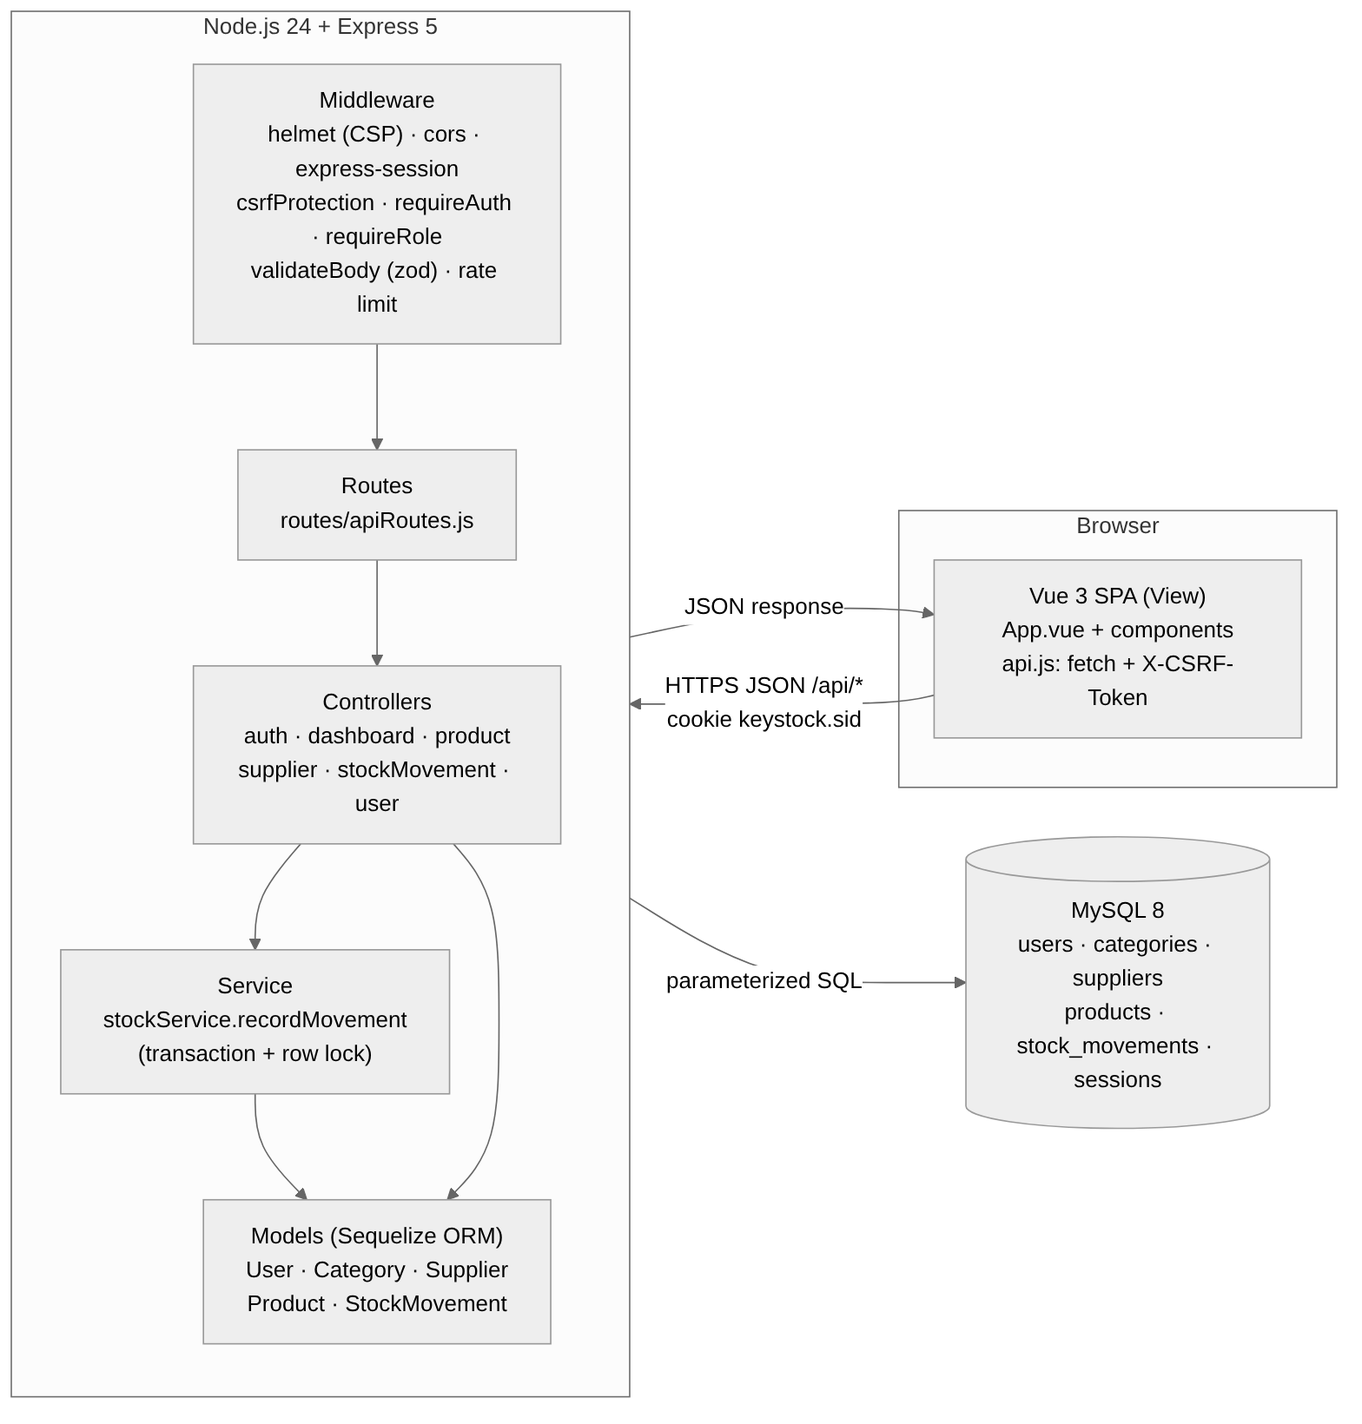
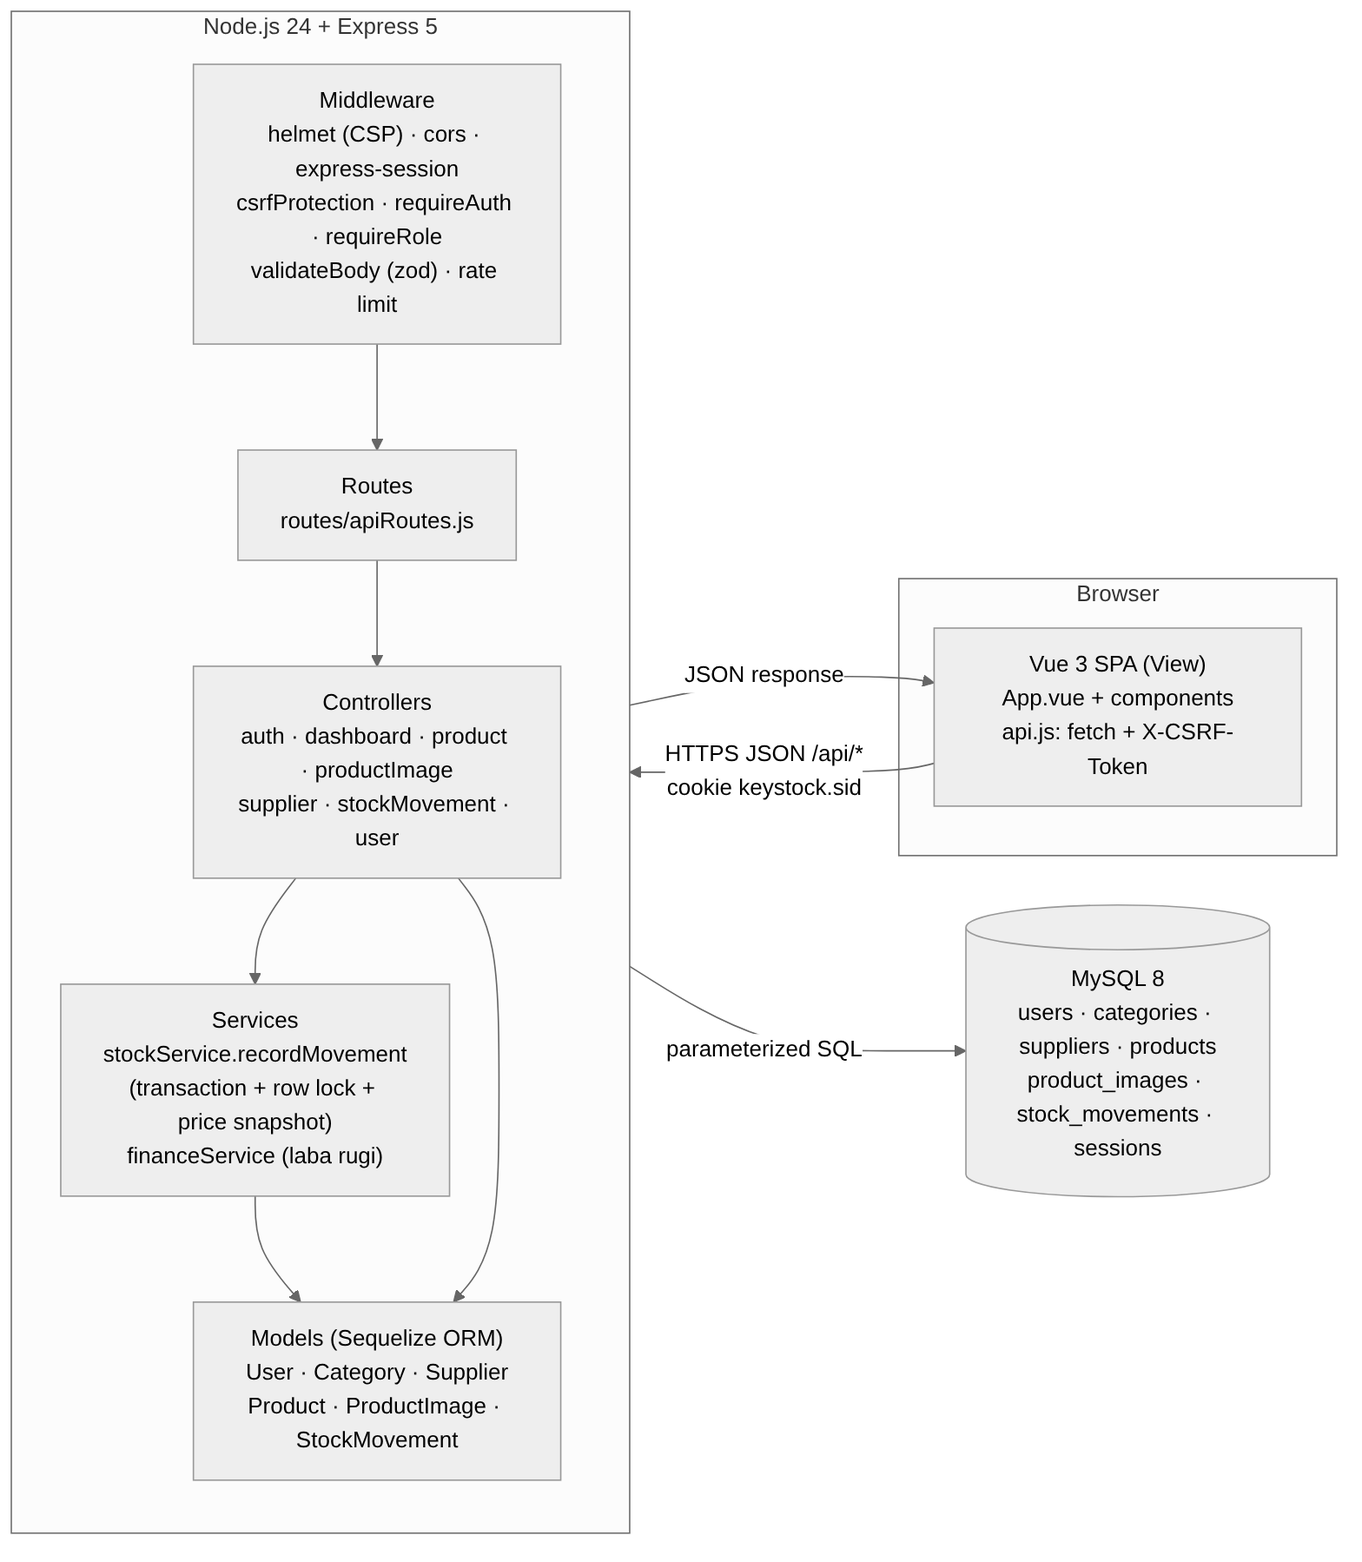
docs: update ERD, schema, diagrams, and guides for photos, finance, and racks
- ERD and schema.sql gain product_images, users.username, and the
  movement reason and price snapshot columns.
- Architecture and flowchart diagrams re-rendered.
- README, requirements, and deployment guides describe the test
  accounts, username login, profit and loss, rack locations, photo
  gallery, WhatsApp shortcuts, and the new API routes.

diff --git a/docs/requirements-and-architecture.md b/docs/requirements-and-architecture.md
@@ -4,7 +4,16 @@
 
 KeyStock adalah sistem **manajemen inventaris gudang** untuk keyboard mechanical dan aksesori (studi kasus pilihan UAS: *Sistem Manajemen Inventaris Gudang*). Pemilik/admin mengelola katalog, supplier, dan pengguna; staff gudang mencatat setiap stok masuk, stok keluar, dan penyesuaian. Status listing marketplace hanya referensi — aplikasi tidak memanggil API marketplace.
 
-Katalog contoh berisi 23 produk (keyboard, switch, keycaps, deskmat, aksesori). Jumlah stok, lokasi rak, dan riwayat 7 hari terakhir adalah **data simulasi** dari seeder.
+Katalog contoh berisi 23 produk (keyboard, switch, keycaps, deskmat, aksesori). Jumlah stok, lokasi rak, harga beli/jual, dan riwayat 7 hari terakhir adalah **data simulasi** dari seeder (harga beli dihitung dari rasio modal per kategori, harga jual = harga katalog).
+
+### Akun uji
+
+| Peran | Username | Email | Kata sandi |
+| --- | --- | --- | --- |
+| Admin (untuk dosen penguji) | `dosen` | `dosen@keystock.local` | `12345678` |
+| Staff | `staff` | `staff@keystock.local` | `12345678` |
+
+Akun dibuat oleh `npm run db:seed` dari variabel `SEED_DOSEN_*` dan `SEED_STAFF_*` di `.env` (tidak ditulis di kode). Login menerima **username atau email**.
 
 > **Stack:** Soal UAS menyebut Laravel + Eloquent. Proyek ini memakai **Vue 3 + Node.js/Express + MySQL + Sequelize ORM** atas persetujuan dosen. Pola MVC, relasi ORM, validasi server, CSRF, session, dan RBAC tetap diterapkan; padanan Eloquent dijelaskan di tabel bawah.
 
@@ -13,9 +22,10 @@ Katalog contoh berisi 23 produk (keyboard, switch, keycaps, deskmat, aksesori). 
 | Aksi | Admin | Staff |
 | --- | :---: | :---: |
 | Daftar akun sendiri (otomatis menjadi staff) | – | ✓ |
-| Login, logout, melihat ringkasan / produk / supplier / riwayat stok | ✓ | ✓ |
-| Mencatat stok masuk, stok keluar, penyesuaian | ✓ | ✓ |
-| Tambah, ubah, arsipkan produk | ✓ | ✗ (403) |
+| Login, logout, melihat ringkasan / laba rugi / produk / supplier / riwayat stok | ✓ | ✓ |
+| Mencatat stok masuk, stok keluar, penyesuaian (beserta alasannya) | ✓ | ✓ |
+| Tambah, ubah, arsipkan produk (harga, lokasi rak) | ✓ | ✗ (403) |
+| Unggah, urutkan, hapus foto produk | ✓ | ✗ (403) |
 | Tambah, ubah, arsipkan supplier | ✓ | ✗ (403) |
 | Lihat pengguna, ubah peran, nonaktifkan akun | ✓ | ✗ (403) |
 
@@ -23,13 +33,16 @@ Aturan di atas ditegakkan di server oleh middleware `requireAuth` dan `requireRo
 
 ## Fitur
 
-1. Registrasi (akun staff), login, logout, session server-side di MySQL.
-2. Ringkasan stok: KPI total unit (perubahan 7 hari), jumlah perlu restock, stok habis; heatmap aktivitas 7/14/30 hari; stok terendah/rata-rata/tertinggi; detail produk; peta rak; tabel aktivitas terbaru dengan filter dan pagination; ekspor CSV.
-3. CRUD produk (tambah, lihat + cari + filter, ubah, arsip/soft delete) dengan validasi server per-field.
-4. CRUD supplier (tambah, lihat, ubah, arsip).
-5. Pergerakan stok: masuk, keluar, penyesuaian — setiap catatan menyimpan stok sebelum/sesudah, pengguna, waktu, dan catatan; pratinjau saldo sebelum disimpan; riwayat dengan pencarian dan filter.
-6. Manajemen pengguna (admin): ubah peran admin/staff, nonaktifkan/aktifkan akun.
-7. Mode terang/gelap, layout responsif (tab bar bawah di ponsel, tabel menjadi kartu).
+1. Registrasi (nama, username, email; otomatis staff), login dengan username **atau** email, logout, session server-side di MySQL.
+2. Ringkasan stok: KPI total unit (perubahan 7 hari), jumlah perlu restock, stok habis; heatmap aktivitas 7/14/30 hari; stok terendah/rata-rata/tertinggi; kartu detail produk; tabel aktivitas terbaru dengan filter dan pagination; ekspor CSV (termasuk laba per unit, margin, nilai stok).
+3. **Laba & rugi 30 hari**: pendapatan, HPP (modal barang terjual), laba kotor, margin, rugi stok (rusak/hilang), laba bersih, belanja stok, unit terjual, nilai stok (modal), dan potensi laba stok. Dihitung dari *snapshot* harga di setiap pergerakan, jadi perubahan harga tidak mengubah laporan lama.
+4. **Peta rak gudang**: tampilan depan rak bertingkat; lokasi memakai format `RAK-TINGKAT-SLOT` (mis. `A-1-05`), satu slot hanya untuk satu produk aktif; tinggi kardus mengikuti jumlah stok, warna mengikuti status stok; klik kardus membuka detail produk.
+5. CRUD produk (tambah, lihat + cari + filter, ubah, arsip/soft delete) dengan validasi server per-field; harga beli/jual dengan laba per unit dan margin.
+6. **Detail produk** (dialog): galeri foto dengan slide, harga & laba, statistik 30 hari, riwayat terakhir, dan kontak supplier. Admin dapat mengunggah (JPEG/PNG/WebP, maks 2 MB, maks 8 foto), mengurutkan, menjadikan foto utama, dan menghapus foto.
+7. CRUD supplier (tambah, lihat, ubah, arsip); tombol **WhatsApp** (`wa.me`, nomor 08… otomatis menjadi 628…), telepon, dan email.
+8. Pergerakan stok: masuk (pembelian, retur pelanggan), keluar (penjualan, rusak, hilang, retur ke supplier), penyesuaian (stock opname). Setiap catatan menyimpan stok sebelum/sesudah, alasan, harga saat itu, pengguna, waktu, dan catatan; pratinjau saldo dan nilai rupiah sebelum disimpan; riwayat dengan pencarian dan filter.
+9. Manajemen pengguna (admin): ubah peran admin/staff, nonaktifkan/aktifkan akun; tabel rincian hak akses.
+10. Mode terang/gelap, layout responsif (tab bar bawah di ponsel, tabel menjadi kartu).
 
 ## Arsitektur (MVC)
 
@@ -42,7 +55,7 @@ Aturan di atas ditegakkan di server oleh middleware `requireAuth` dan `requireRo
 | **Controller** | `server/src/controllers/*.js` | Menerima request, memanggil model/service, mengembalikan JSON |
 | Routes | `server/src/routes/apiRoutes.js` | Memetakan URL + method ke controller dan middleware |
 | Middleware | `server/src/middleware/*.js` | CSRF, autentikasi, otorisasi peran, validasi, error handler |
-| Service | `server/src/services/stockService.js` | Logika stok dalam transaksi database + row lock |
+| Service | `server/src/services/stockService.js`, `financeService.js` | Logika stok dalam transaksi database + row lock; ringkasan laba rugi |
 
 ### Siklus request (contoh: tambah produk)
 
@@ -61,6 +74,12 @@ Aturan di atas ditegakkan di server oleh middleware `requireAuth` dan `requireRo
 | GET | `/api/dashboard` | `requireAuth` | `getDashboard` |
 | GET | `/api/categories` | `requireAuth` | `listCategories` |
 | GET | `/api/products` | `requireAuth` | `listProducts` (search, kategori, stok rendah) |
+| GET | `/api/products/:id` | `requireAuth` | `getProduct` (foto, riwayat, statistik 30 hari) |
+| GET | `/api/products/:id/images` | `requireAuth` | `listImages` |
+| GET | `/api/products/:id/images/:imageId/file` | `requireAuth` | `sendImageFile` |
+| POST | `/api/products/:id/images` | csrf, `requireAuth`, `requireRole('admin')`, body mentah ≤ 2 MB | `uploadImage` |
+| PUT | `/api/products/:id/images/order` | csrf, `requireAuth`, `requireRole('admin')`, `imageOrderSchema` | `reorderImages` |
+| DELETE | `/api/products/:id/images/:imageId` | csrf, `requireAuth`, `requireRole('admin')` | `deleteImage` |
 | POST | `/api/products` | csrf, `requireAuth`, `requireRole('admin')`, `productSchema` | `createProduct` |
 | PUT | `/api/products/:id` | csrf, `requireAuth`, `requireRole('admin')`, `productSchema` | `updateProduct` |
 | DELETE | `/api/products/:id` | csrf, `requireAuth`, `requireRole('admin')` | `deleteProduct` (arsip) |
@@ -75,14 +94,15 @@ Aturan di atas ditegakkan di server oleh middleware `requireAuth` dan `requireRo
 
 ![ERD](diagrams/erd.png)
 
-Lima tabel domain + tabel `sessions` (dibuat otomatis oleh `express-mysql-session`):
+Enam tabel domain + tabel `sessions` (dibuat otomatis oleh `express-mysql-session`):
 
 - `categories` 1–N `products` (FK `category_id`, `ON DELETE RESTRICT`)
+- `products` 1–N `product_images` (FK `product_id`, `ON DELETE CASCADE`)
 - `suppliers` 0..1–N `products` (FK `supplier_id`, nullable, `ON DELETE SET NULL`)
 - `products` 1–N `stock_movements` (FK `product_id`, `ON DELETE RESTRICT`)
 - `users` 1–N `stock_movements` (FK `user_id`, `ON DELETE RESTRICT`)
 
-Skrip SQL: [`database/schema.sql`](../database/schema.sql). Migrasi kode: `npm run db:sync` (`sequelize.sync` + `server/src/db/migrations.js`).
+Skrip SQL: [`database/schema.sql`](../database/schema.sql) (struktur) dan [`database/keystock-demo.sql`](../database/keystock-demo.sql) (struktur + data demo). Migrasi kode: `npm run db:sync` (`sequelize.sync` + `server/src/db/migrations.js`, yang juga menambah kolom baru ke database lama).
 
 ### Padanan Sequelize ↔ Eloquent
 
@@ -108,6 +128,8 @@ Skrip SQL: [`database/schema.sql`](../database/schema.sql). Migrasi kode: `npm r
 | Akses tanpa hak | `requireAuth` + `requireRole('admin')`; akun nonaktif langsung ditolak | `middleware/auth.js` |
 | Data stok tidak konsisten | Transaksi + row lock; stok keluar tidak boleh melebihi saldo | `services/stockService.js` |
 | CSV injection | Sel ekspor yang diawali `= + - @` diberi prefix `'` | `App.vue` (`exportInventoryCsv`) |
+| Upload file berbahaya | Hanya admin; tipe dicek dari *magic bytes* (JPEG/PNG/WebP), bukan nama file; maks 2 MB dan 8 foto per produk; disajikan dengan `Content-Type` asli + `nosniff` | `controllers/productImageController.js` |
+| Slot rak bentrok | Format `RAK-TINGKAT-SLOT` divalidasi; slot yang sudah dipakai produk aktif ditolak (409) | `validators.js`, `productController.js` |
 
 ## Alur aplikasi
 

diff --git a/README.md b/README.md
@@ -8,11 +8,14 @@ Proyek UAS *Web Application Development* — Universitas Cakrawala.
 
 ## Fitur
 
-- **Autentikasi:** registrasi (akun baru = staff), login, logout, session di MySQL.
-- **Ringkasan stok** (desain mengikuti referensi Quantara, hitam-putih): KPI total unit / perlu restock / stok habis, heatmap aktivitas 7/14/30 hari, stok terendah–rata-rata–tertinggi, detail produk + kontak supplier, peta rak, tabel aktivitas terbaru dengan filter + pagination, ekspor CSV.
-- **Produk:** CRUD lengkap (arsip = soft delete), pencarian, filter kategori/supplier/stok rendah, validasi per-field.
-- **Supplier:** CRUD + kontak (telepon, email, situs).
-- **Pergerakan stok:** stok masuk, keluar, penyesuaian dengan pratinjau saldo; setiap catatan menyimpan stok sebelum/sesudah, pengguna, waktu.
+- **Autentikasi:** registrasi (nama, username, email; akun baru = staff), login dengan **username atau email**, logout, session di MySQL.
+- **Ringkasan stok** (desain mengikuti referensi Quantara, hitam-putih): KPI total unit / perlu restock / stok habis, heatmap aktivitas 7/14/30 hari, detail produk + kontak supplier, tabel aktivitas terbaru dengan filter + pagination, ekspor CSV.
+- **Laba & rugi 30 hari:** pendapatan, HPP, laba kotor + margin, rugi stok (rusak/hilang), laba bersih, belanja stok, nilai stok, dan potensi laba stok.
+- **Peta rak gudang:** gambar rak bertingkat dengan lokasi `RAK-TINGKAT-SLOT` (mis. `A-1-05`); tinggi kardus = jumlah stok, warna = status stok; klik untuk detail.
+- **Produk:** CRUD lengkap (arsip = soft delete), harga beli/jual + laba per unit dan margin, pencarian, filter kategori/supplier/stok rendah, validasi per-field.
+- **Detail produk (dialog):** galeri foto bergeser (slide); admin bisa unggah, urutkan, pilih foto utama, dan hapus foto (disimpan di MySQL).
+- **Supplier:** CRUD + kontak; tombol **WhatsApp**, telepon, dan email langsung dari kartu supplier.
+- **Pergerakan stok:** masuk (pembelian, retur pelanggan), keluar (penjualan, rusak, hilang, retur ke supplier), penyesuaian (stock opname) dengan pratinjau saldo dan nilai rupiah; setiap catatan menyimpan stok sebelum/sesudah, alasan, harga saat itu, pengguna, waktu.
 - **Pengguna (admin):** ubah peran admin/staff, nonaktifkan akun, tabel rincian hak akses.
 - Mode terang/gelap, responsif (tab bar bawah di ponsel, tabel jadi kartu).
 
@@ -20,21 +23,23 @@ Proyek UAS *Web Application Development* — Universitas Cakrawala.
 
 | Aksi | Admin | Staff |
 | --- | :---: | :---: |
-| Lihat ringkasan, produk, supplier, riwayat stok | ✓ | ✓ |
+| Lihat ringkasan, laba rugi, produk, supplier, riwayat stok | ✓ | ✓ |
 | Catat stok masuk / keluar / penyesuaian | ✓ | ✓ |
 | Tambah / ubah / arsipkan produk dan supplier | ✓ | ✗ |
+| Kelola foto produk | ✓ | ✗ |
 | Kelola pengguna | ✓ | ✗ |
 
 ## Akun demo
 
-Akun dibuat oleh seeder dari nilai `SEED_*` di `.env` (lokal) atau *Variables* Railway (production). Password **tidak** disimpan di repository.
+Akun dibuat oleh seeder dari nilai `SEED_*` di `.env` (lokal) atau *Variables* Railway (production), bukan dari kode. Login bisa memakai **username atau email**.
 
-| Peran | Email | Password |
-| --- | --- | --- |
-| Admin | nilai `SEED_ADMIN_EMAIL` (contoh: `admin@keystock.local`) | nilai `SEED_ADMIN_PASSWORD` |
-| Staff | nilai `SEED_STAFF_EMAIL` (contoh: `staff@keystock.local`) | nilai `SEED_STAFF_PASSWORD` |
+| Peran | Username | Email | Password (nilai di `.env.example`) |
+| --- | --- | --- | --- |
+| Admin — akun uji dosen | `dosen` | `dosen@keystock.local` | `12345678` |
+| Staff | `staff` | `staff@keystock.local` | `12345678` |
+| Admin pemilik | `admin` | `admin@keystock.local` | nilai `SEED_ADMIN_PASSWORD` |
 
-Akun staff tambahan bisa dibuat sendiri lewat tab **Daftar akun** di halaman login.
+Akun staff tambahan bisa dibuat sendiri lewat tab **Daftar akun** di halaman login. Ganti password demo jika aplikasi dibuka untuk umum.
 
 ## Menjalankan di komputer lokal
 
@@ -45,16 +50,17 @@ Prasyarat: Node.js 24 (lihat `.nvmrc`), npm, dan MySQL 8 (lokal atau Docker Desk
 cp .env.example .env
 #    - SESSION_SECRET  -> hasil: openssl rand -hex 32
 #    - DB_PASSWORD / DB_ROOT_PASSWORD -> password MySQL lokal
-#    - SEED_ADMIN_PASSWORD (min. 12 karakter), opsional SEED_STAFF_PASSWORD
+#    - SEED_ADMIN_PASSWORD (min. 8 karakter); akun dosen & staff sudah berisi 12345678
 
 # 2. Database (pilih salah satu)
 docker compose up -d mysql            # MySQL 8.4 via Docker
 #  atau import database/schema.sql ke MySQL lokal lalu buat user sesuai .env
+#  (database/keystock-demo.sql = struktur + data demo siap pakai)
 
 # 3. Dependency + data
 npm install
 npm run db:sync     # buat / sesuaikan tabel
-npm run db:seed     # kategori, supplier, 23 produk, riwayat stok demo, akun demo
+npm run db:seed     # kategori, supplier, 23 produk + foto, harga, lokasi rak, riwayat stok, akun demo
 
 # 4. Jalankan (API :3000 + Vite :5173)
 npm run dev
@@ -77,18 +83,20 @@ Buka <http://localhost:5173>.
 ```text
 client/                         View — Vue 3 + Vite
   src/App.vue                   halaman, state, dan pemanggilan API
-  src/components/               ActivityHeatmap.vue, RackMap.vue
+  src/components/               ActivityHeatmap.vue, RackMap.vue, ProductDetailModal.vue
+  src/utils/format.js           format rupiah/tanggal, laba & margin, link WhatsApp, lokasi rak
   src/api.js                    fetch wrapper + header X-CSRF-Token
   src/style.css                 design tokens terang/gelap
 server/src/
   routes/apiRoutes.js           routing URL -> middleware -> controller
-  controllers/                  Controller: auth, dashboard, product, supplier, stockMovement, user
-  models/index.js               Model: User, Category, Supplier, Product, StockMovement + relasi
-  services/stockService.js      logika stok (transaksi + row lock)
+  controllers/                  Controller: auth, dashboard, product, productImage, supplier, stockMovement, user
+  models/index.js               Model: User, Category, Supplier, Product, ProductImage, StockMovement + relasi
+  services/                     stockService (transaksi + row lock, snapshot harga), financeService (laba rugi)
   middleware/                   auth (requireAuth/requireRole), csrf, validate, validators (zod), errorHandler
   db/                           sync & migrasi kolom
   seeders/                      catalog.json + seed.js
-database/schema.sql             DDL MySQL (5 tabel, foreign key, index)
+database/schema.sql             DDL MySQL (6 tabel, foreign key, index)
+database/keystock-demo.sql      dump struktur + data demo (import langsung ke MySQL)
 docs/                           kebutuhan, arsitektur, ERD, flowchart, deployment, keputusan desain
 railway.json                    konfigurasi build/start Railway
 docker-compose.yml              MySQL lokal
@@ -112,12 +120,12 @@ docker-compose.yml              MySQL lokal
 
 ## Data dan sumber
 
-Katalog contoh mengambil referensi produk dari Noir Gear dan Work Louder (nama brand, bukan nama aplikasi). Stok, lokasi rak, dan riwayat 7 hari terakhir adalah simulasi untuk demo. Harga listing hanya referensi; harga beli/jual dibiarkan kosong sampai diisi admin. Foto produk disimpan lokal di `client/public/images/`.
+Katalog contoh mengambil referensi produk dari Noir Gear dan Work Louder (nama brand, bukan nama aplikasi). Stok, lokasi rak, harga beli/jual, dan riwayat 7 hari terakhir adalah **simulasi** untuk demo: harga jual = harga katalog, harga beli = harga jual × rasio modal per kategori (keyboard 75%, keycaps 70%, switch 65%, deskmat 62%, aksesori 60%). Foto katalog disimpan lokal di `client/public/images/`; foto yang diunggah admin disimpan di tabel `product_images`.
 
 ## Checklist deliverables UAS
 
 - [x] Aplikasi CRUD produk, supplier, dan pergerakan stok
-- [x] ERD 5 tabel berelasi + skrip `database/schema.sql`
+- [x] ERD 6 tabel berelasi + skrip `database/schema.sql` + dump data `database/keystock-demo.sql`
 - [x] Registrasi, login, logout, session, role admin/staff
 - [x] Validasi input server, CSRF, sanitasi XSS, query berparameter
 - [x] `.env.example` + README instalasi + akun demo

diff --git a/docs/deployment.md b/docs/deployment.md
@@ -26,8 +26,9 @@ Aplikasi dideploy sebagai **satu service Node.js** (Express menyajikan API `/api
 | `DB_NAME` | `${{MySQL.MYSQLDATABASE}}` |
 | `DB_USER` | `${{MySQL.MYSQLUSER}}` |
 | `DB_PASSWORD` | `${{MySQL.MYSQLPASSWORD}}` |
-| `SEED_ADMIN_NAME` / `SEED_ADMIN_EMAIL` / `SEED_ADMIN_PASSWORD` | akun admin demo (password ≥ 12 karakter) |
-| `SEED_STAFF_NAME` / `SEED_STAFF_EMAIL` / `SEED_STAFF_PASSWORD` | akun staff demo untuk dosen |
+| `SEED_ADMIN_NAME` / `SEED_ADMIN_USERNAME` / `SEED_ADMIN_EMAIL` / `SEED_ADMIN_PASSWORD` | akun admin pemilik (password ≥ 8 karakter) |
+| `SEED_DOSEN_NAME` / `SEED_DOSEN_USERNAME` / `SEED_DOSEN_EMAIL` / `SEED_DOSEN_PASSWORD` | akun uji dosen, peran admin (contoh `dosen` / `12345678`) |
+| `SEED_STAFF_NAME` / `SEED_STAFF_USERNAME` / `SEED_STAFF_EMAIL` / `SEED_STAFF_PASSWORD` | akun uji staff (contoh `staff` / `12345678`) |
 
 `PORT` diisi otomatis oleh Railway. Jika variabel `DB_*` dikosongkan, `server/src/config.js` otomatis memakai `MYSQLHOST`, `MYSQLPORT`, dst. dari service MySQL yang direferensikan.
 
@@ -37,8 +38,8 @@ Railway membaca `railway.json`:
 
 - **Build:** `npm ci` (otomatis) lalu `npm run build` → menghasilkan `client/dist`.
 - **Start:** `npm run db:sync && npm run db:seed && npm start`
-  - `db:sync` membuat/menyesuaikan tabel.
-  - `db:seed` mengisi kategori, supplier, 23 produk, riwayat stok demo, dan akun demo. Aman dijalankan berulang (hanya membuat data yang belum ada).
+  - `db:sync` membuat/menyesuaikan tabel (termasuk menambah kolom `username`, alasan & harga pergerakan, dan tabel `product_images` pada database lama).
+  - `db:seed` mengisi kategori, supplier, 23 produk + foto, harga, lokasi rak, riwayat stok demo, dan akun demo. Aman dijalankan berulang (hanya membuat data yang belum ada; akun demo disetel ulang sesuai variabel).
   - `npm start` menjalankan Express; karena `NODE_ENV=production`, Express menyajikan `client/dist`, mengaktifkan cookie `Secure`, dan `trust proxy`.
 - **Health check:** `GET /api/health` → `{"status":"ok"}`.
 
@@ -49,8 +50,8 @@ Service aplikasi → **Settings** → **Networking** → **Generate Domain**. Sa
 ## 6. Uji setelah deploy
 
 1. Buka URL di jendela incognito → halaman login muncul.
-2. Login admin demo → ringkasan stok berisi data.
-3. Tambah produk, catat stok masuk, arsipkan produk.
+2. Login `dosen` / `12345678` → ringkasan stok, laba rugi, dan peta rak berisi data.
+3. Tambah produk, unggah foto di detail produk, catat penjualan, arsipkan produk.
 4. Logout → daftar akun baru → pastikan menu *Pengguna* tidak muncul dan `POST /api/products` ditolak (403).
 
 ## Troubleshooting
@@ -61,7 +62,8 @@ Service aplikasi → **Settings** → **Networking** → **Generate Domain**. Sa
 | `Missing required environment variables` | Variabel `DB_*`/`SESSION_SECRET` belum diisi atau referensi `${{MySQL...}}` salah nama service. |
 | `SESSION_SECRET must be a generated secret` | Secret kurang dari 32 karakter atau masih `replace-with...`. |
 | Login berhasil tapi langsung ter-logout | Akses lewat `http://`; cookie `Secure` hanya terkirim lewat HTTPS. Gunakan domain `https://` Railway. |
-| `Seed gagal: Set SEED_ADMIN_EMAIL ...` | Isi `SEED_ADMIN_EMAIL` dan `SEED_ADMIN_PASSWORD` (≥ 12 karakter). |
+| `Seed gagal: Set SEED_ADMIN_EMAIL ...` | Isi `SEED_ADMIN_EMAIL` dan `SEED_ADMIN_PASSWORD` (≥ 8 karakter, bukan nilai contoh). |
+| Foto gagal diunggah (413) | File lebih dari 2 MB; kecilkan dulu. Tipe selain JPEG/PNG/WebP ditolak (415). |
 | `ER_ACCESS_DENIED_ERROR` / `ECONNREFUSED` | Kredensial atau host MySQL salah; cek variabel referensi dan pastikan service MySQL running. |
 
 ## Mengapa konfigurasi sensitif di `.env`
